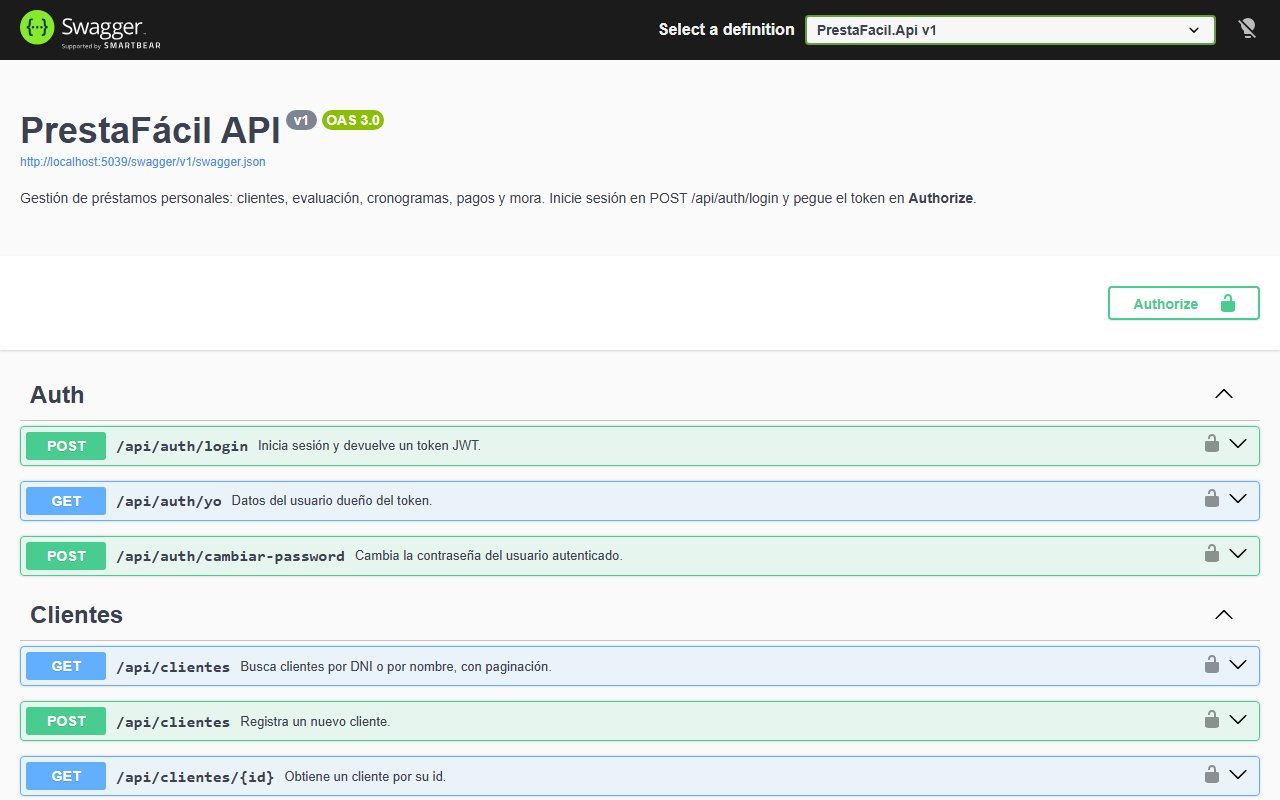
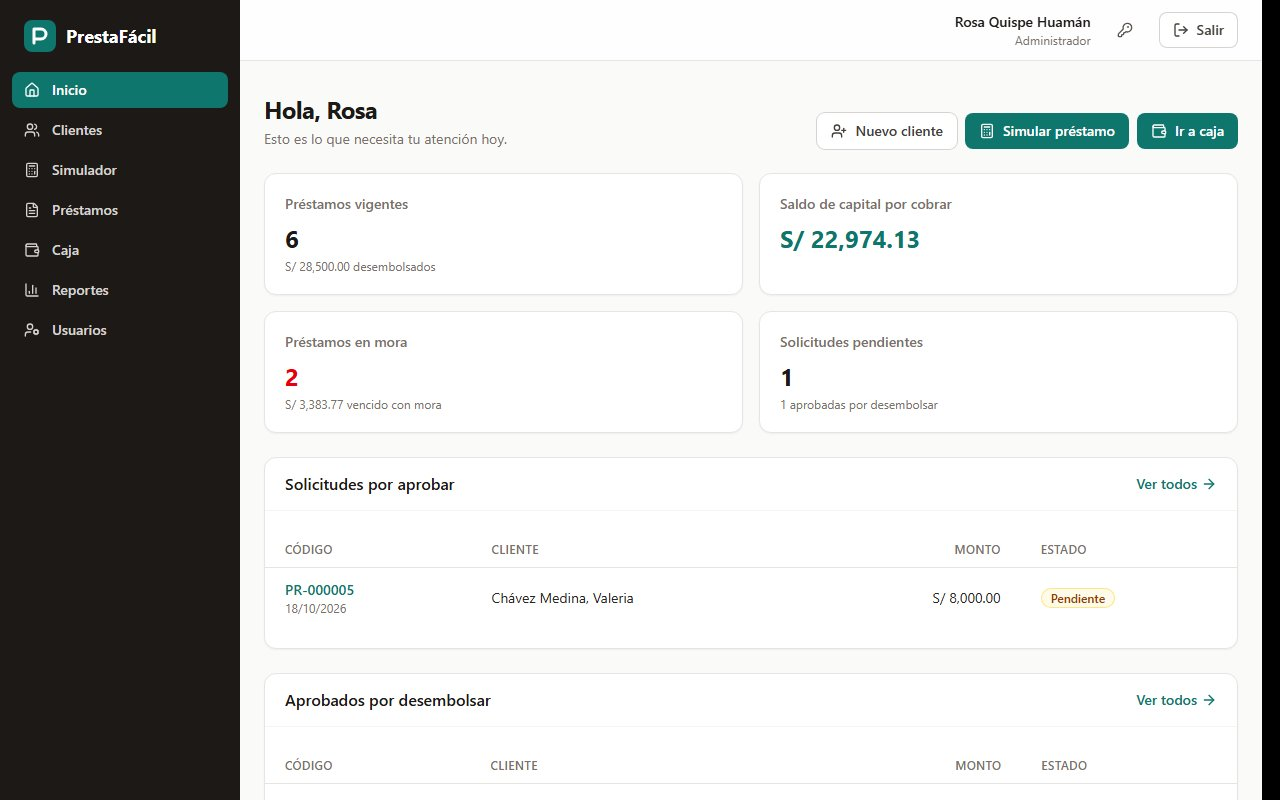
PrestaFácil ahora es full stack: nueva captura y descripción con React

diff --git a/js/data.js b/js/data.js
@@ -8,12 +8,12 @@ const projectsData = [
   {
     id: "prestafacil",
     title: "PrestaFácil — Sistema de Gestión de Préstamos",
-    categories: ["backend"],
-    categoryLabel: "API REST .NET · Proyecto personal",
+    categories: ["backend", "fullstack"],
+    categoryLabel: "Full Stack .NET + React · Proyecto personal",
     thumb: "assets/images/prestafacil.jpg",
-    description: "API para una caja o financiera: evaluación crediticia, cronograma de cuotas por sistema francés, pagos con mora, reportes y control de acceso por roles.",
-    fullDescription: "Sistema que cubre todo el ciclo de un préstamo: registro del cliente, simulación, evaluación de capacidad de pago, aprobación, desembolso, cronograma, cobranza con mora y reportes. Lo diseñé y desarrollé completo, desde los requerimientos y el modelo de datos hasta el despliegue con Docker y la integración continua.",
-    role: "Proyecto personal: requerimientos, modelo de datos, backend, pruebas, Docker y CI.",
+    description: "Sistema para una caja o financiera, con API en .NET y app en React: evaluación crediticia, cronograma por sistema francés, cobranza con mora, reportes y pantallas según el rol.",
+    fullDescription: "Sistema que cubre todo el ciclo de un préstamo: registro del cliente, simulación, evaluación de capacidad de pago, aprobación, desembolso, cronograma, cobranza con mora y reportes. Cada rol (administrador, asesor y cajero) trabaja en su propia pantalla. Lo diseñé y desarrollé completo, desde los requerimientos y el modelo de datos hasta la interfaz, Docker y la integración continua.",
+    role: "Proyecto personal: requerimientos, modelo de datos, backend, frontend, pruebas, Docker y CI.",
     highlights: [
       "Arquitectura en capas (Domain, Application, Infrastructure, API) con ASP.NET Core y Entity Framework Core sobre SQL Server.",
       "Cálculo de cuotas por sistema francés idéntico en C# y en SQL Server; las pruebas detectaron y corrigieron un error de precisión en el script SQL.",
@@ -21,13 +21,14 @@ const projectsData = [
       "Pagos aplicados a la cuota más antigua (mora → interés → capital), anulación con reversión y control de concurrencia con ROWVERSION.",
       "Autenticación JWT con roles (Admin, Asesor, Cajero), contraseñas con BCrypt y límite de intentos de login.",
       "Procedimientos almacenados para reportes y un proceso diario de mora con BackgroundService.",
-      "118 pruebas unitarias con xUnit; GitHub Actions compila, prueba, revisa vulnerabilidades y ejecuta una prueba de humo con Docker Compose."
+      "Frontend en React con TypeScript, Tailwind CSS y TanStack Query: simulador con evaluación, caja con recibo de cómo se aplicó el pago y reportes con gráficos.",
+      "119 pruebas con xUnit y 24 con Vitest; GitHub Actions compila, prueba, revisa vulnerabilidades y levanta SQL Server, API y frontend con Docker Compose para una prueba de humo."
     ],
-    stack: ["C#", ".NET 10", "ASP.NET Core", "Entity Framework Core", "SQL Server", "JWT", "xUnit", "Docker", "GitHub Actions", "Swagger"],
+    stack: ["C#", "ASP.NET Core", "Entity Framework Core", "SQL Server", "React", "TypeScript", "Tailwind CSS", "JWT", "xUnit", "Docker", "GitHub Actions"],
     demoUrl: null,
     githubUrl: "https://github.com/jhamile4/prestafacil",
     architecture: `
-  [Cliente / Swagger] ── JWT Bearer ──►  [ASP.NET Core Web API]
+  [React + TypeScript] ── JWT Bearer ──►  [ASP.NET Core Web API]
                                                │  Controladores + roles
                                                ▼
                                       [Application] Servicios, DTOs,
